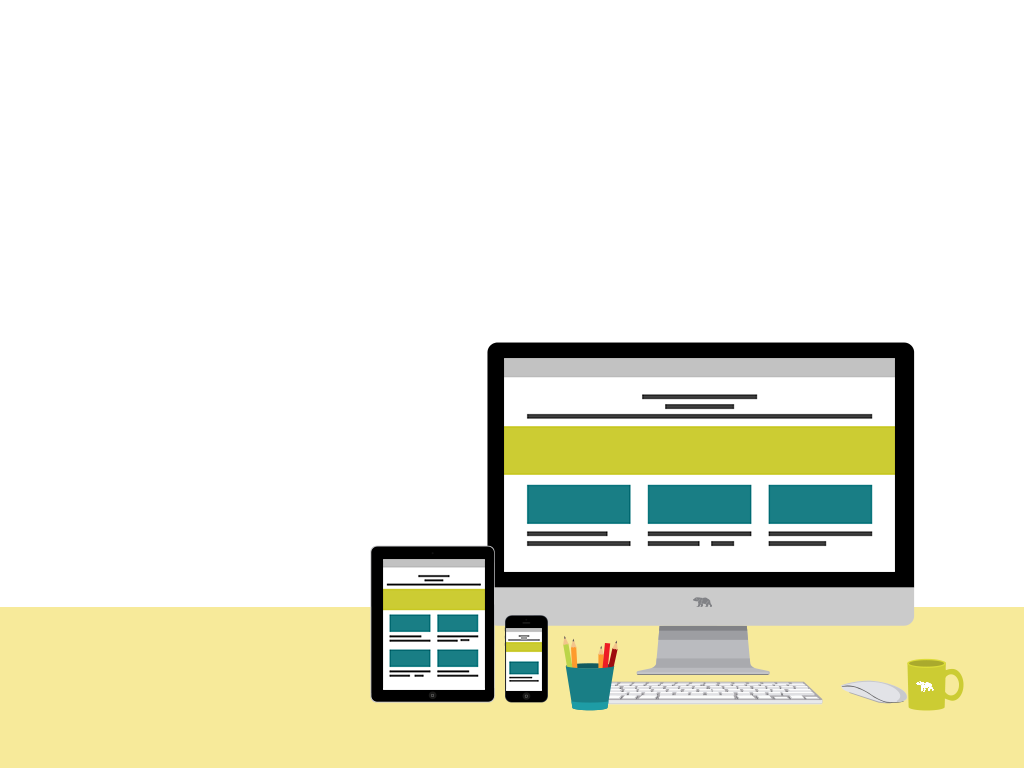
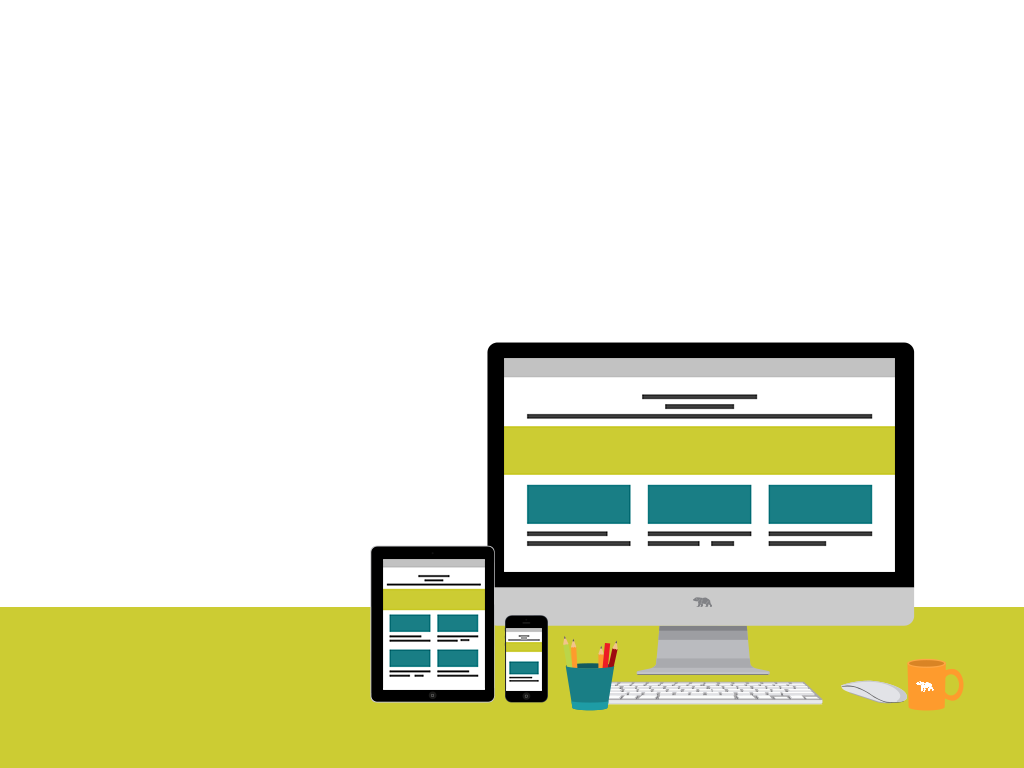
header buttons

Changed region(s): [[0.0, 0.7812, 1.0, 1.0]]

diff --git a/bear/assets/css/main.css b/bear/assets/css/main.css
@@ -330,12 +330,12 @@ h1, h2, h3, h4, h5, h6 {
 }
 
 .btn-info {
-  background-color: #00aeef;
-  border-color: #00aeef;
+  background-color: #fe9b2d;
+  border-color: #fe9b2d;
 }
 .btn-info:hover, .btn-info:focus, .btn-info:active, .btn-info.active {
-  background-color: #00aeef;
-  border-color: #009bd5;
+  background-color: #cccc33;
+  border-color: #cccc33;
 }
 
 .btn-primary {
@@ -5332,28 +5332,27 @@ img.mfp-img {
 }
 .hero-unit .hero-content {
   position: absolute;
-  left: 18%;
-  top: 50%;
+  left: 15%;
+  top: 20%;
   width: 100%;
-  margin-top: -17em;
   z-index: 2;
 }
 @media screen and (max-width: 1024px){
   .hero-unit .hero-content{
-    top:55%;
-    left:12%;
+    top:15%;
+    left:10%;
   }
 }
 @media screen and (max-width: 768px){
   .hero-unit .hero-content{
-    top:45%;
-    left:26%;
+    top:20%;
+    left:8%;
   }
 }
 @media screen and (max-width: 375px){
   .hero-unit .hero-content{
-    top:65%;
-    left:19%;
+    top:20%;
+    left:10%;
   }
 }
 .hero-unit .hero-content .hero-text,
@@ -5375,19 +5374,19 @@ img.mfp-img {
   font-weight: 300;
 }
 .hero-unit .hero-content .hero-text .hero-heading {
-  font-size: 2em;
+  font-size: 1.6em;
 }
 .hero-unit .hero-content .hero-text .hero-heading span.herotitlespan{
-  font-family: "Dosis", sans-serif;
+  font-family: 'Boogaloo', cursive;
   color:#197e85;
-  font-weight:500;
-  font-size:2.8em;
+  font-weight:700;
+  font-size:2.3em;
 }
 .hero-unit .hero-content .hero-text .hero-heading span.herosubtitlespan{
-  font-family: 'Lobster Two', cursive;
-  font-weight: 700;
+  font-family: 'Playfair Display', serif;
+  font-weight: 400;
   color: #cccc33;
-  font-size:2em;
+  font-size:1.5em;
 }
 @media screen and (max-width: 1024px){
   .hero-unit .hero-content .hero-text .hero-heading {
@@ -5402,13 +5401,7 @@ img.mfp-img {
 }
 @media screen and (max-width: 768px){
   .hero-unit .hero-content .hero-text .hero-heading {
-    font-size: 3em;
-  }
-  .hero-unit .hero-content .hero-text .hero-heading span.herotitlespan{
-    font-size:1.5em;
-  }
-  .hero-unit .hero-content .hero-text .hero-heading span.herosubtitlespan{
-    font-size:1.3em;
+    font-size: 2.5em;
   }
 }
 @media screen and (max-width: 480px) {
@@ -5418,7 +5411,7 @@ img.mfp-img {
 }
 @media screen and (max-width: 375px){
   .hero-unit .hero-content .hero-text .hero-heading {
-    font-size: 2em;
+    font-size: 1.5em;
   }
 }
 .hero-unit .hero-content .hero-text p {
@@ -5444,6 +5437,8 @@ img.mfp-img {
 }
 .hero-unit .hero-content .hero-buttons {
   z-index: 2;
+  text-align: left;
+  margin-top: 2%;
 }
 .hero-unit .hero-content .hero-buttons .btn {
   margin: 0 5px;

diff --git a/bear/index.html b/bear/index.html
@@ -34,6 +34,11 @@ ga('send', 'pageview');
 	<link href='http://fonts.googleapis.com/css?family=Dosis:300,400,500,600,700' rel='stylesheet' type='text/css'>
 	<link href='http://fonts.googleapis.com/css?family=Open+Sans:400italic,300,400,700' rel='stylesheet' type='text/css'>
 	<link href='http://fonts.googleapis.com/css?family=Lobster+Two:700italic,400italic' rel='stylesheet' type='text/css'>
+	<link href='http://fonts.googleapis.com/css?family=Permanent+Marker' rel='stylesheet' type='text/css'>
+	<link href='http://fonts.googleapis.com/css?family=Bangers' rel='stylesheet' type='text/css'>
+	<link href='http://fonts.googleapis.com/css?family=Boogaloo' rel='stylesheet' type='text/css'>
+	<link href='http://fonts.googleapis.com/css?family=Shadows+Into+Light+Two' rel='stylesheet' type='text/css'>
+	<link href='http://fonts.googleapis.com/css?family=Playfair+Display' rel='stylesheet' type='text/css'>
 
 	<!-- IE 9 Fallback-->
 	<!--[if IE 9]>
@@ -142,7 +147,11 @@ j=d.createElement(s),dl=l!='dataLayer'?'&l='+l:'';j.async=true;j.src=
 			<!-- Hero text -->
 			<div id="slidecaption" class="slide-caption">
 				<div class="hero-text">
-					<h2 class="hero-heading"><span class="herotitlespan">BERESTERK</span><br>in <span class="herosubtitlespan">webdesign</span><br>& <span class="herosubtitlespan">digitale<br>communicatie</span></h2>
+					<h2 class="hero-heading"><span class="herotitlespan">BERESTERK</span><br>in <span class="herosubtitlespan">webdesign</span><br>& <span class="herosubtitlespan">digitale communicatie</span></h2>
+				</div>
+				<div class="hero-buttons">
+					<a href="#about" id="btn-about" class="btn btn-info btn-sm">OFFERTE</a>
+					<a href="#contact" id="btn-contact" class="btn btn-primary btn-sm">CONTACT</a>
 				</div>
 			</div>	
 		</div>
